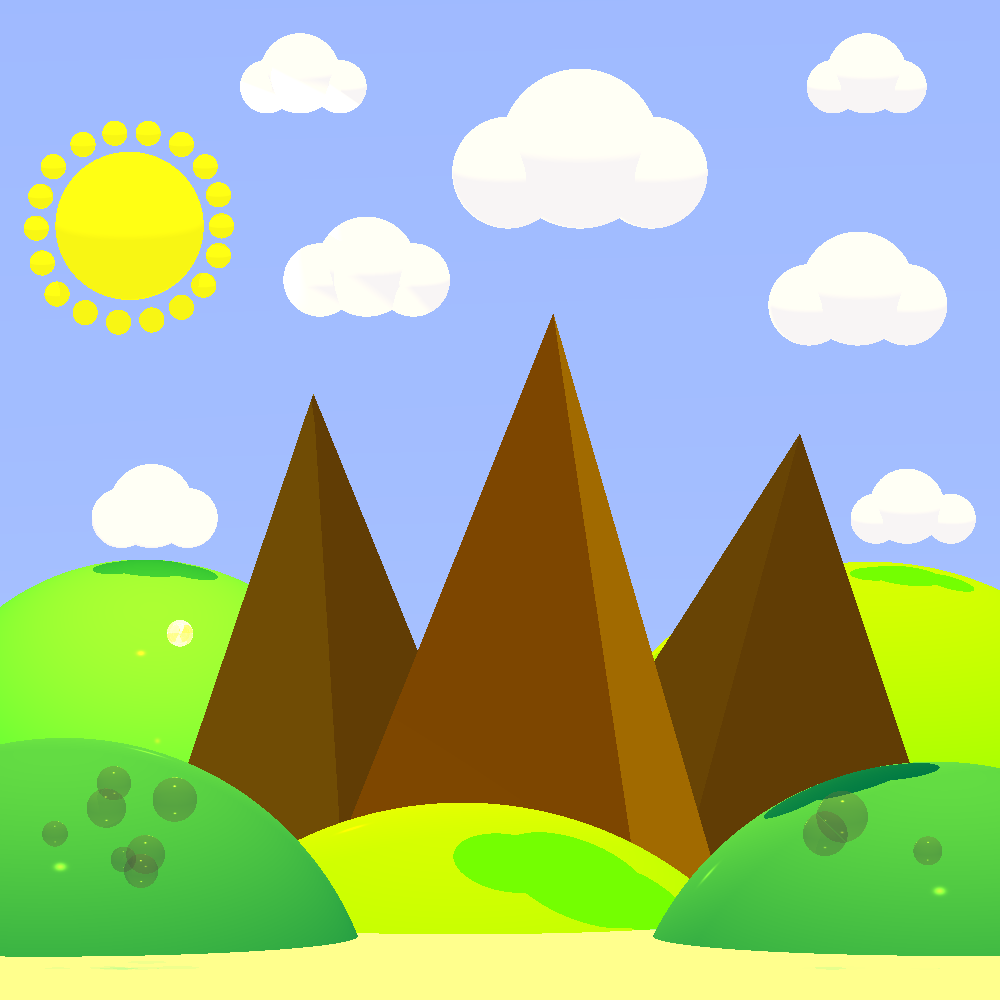
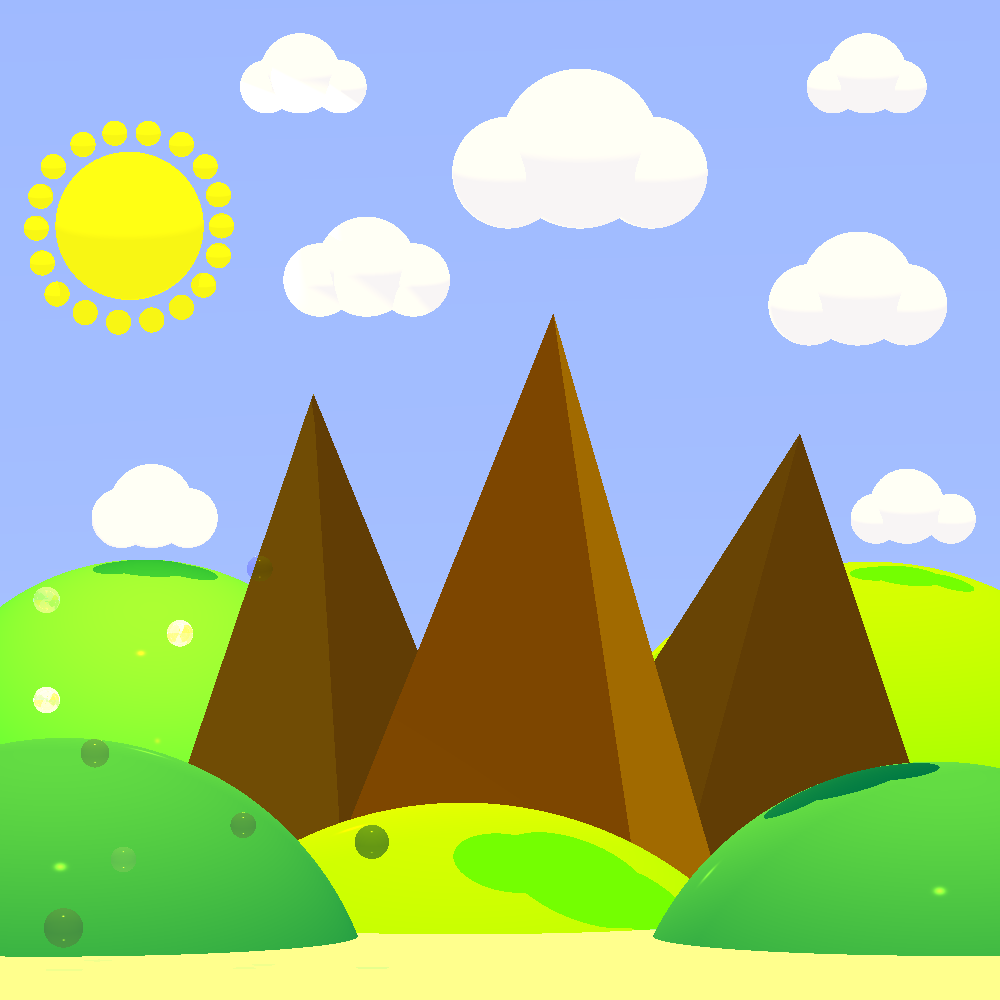
finish picture, lets improve!

diff --git a/unitTests/renderer/minip1Test.java b/unitTests/renderer/minip1Test.java
@@ -154,85 +154,47 @@ public class minip1Test {
                         .setMaterial(new Material().setKd(0.2).setKs(0.6).setShininess(300))
 
         );*/
-
-
-
         //bubbles
-
         scene.getGeometries().add(
-
-                //hils1
                 //1
                 new Sphere(new Point(-48,-20,0),2d)
                         .setEmission(new Color(255,255,255).scale(0.05))
                         .setMaterial(new Material().setKd(0.1)
                                 .setKs(0.9).setShininess(300).setKt(0.8).setKr(0.4)),
-
-
-
-                //hils2
-                //2
+                new Sphere(new Point(-68,-30,0),2d)
+                        .setEmission(new Color(255,255,255).scale(0.05))
+                        .setMaterial(new Material().setKd(0.1)
+                                .setKs(0.9).setShininess(300).setKt(0.8).setKr(0.4)),
+                new Sphere(new Point(-68,-15,0),2d)
+                        .setEmission(new Color(255,255,255).scale(0.05))
+                        .setMaterial(new Material().setKd(0.1)
+                                .setKs(0.9).setShininess(300).setKt(0.8).setKr(0.2)),
                 new Sphere(new Point(-44,-42,221),1.5d)
                         .setEmission(new Color(255,255,255).scale(0.05))
                         .setMaterial(new Material().setKd(0.1)
-                                .setKs(0.9).setShininess(300).setKt(0.8)),
-                         /* //3
-                new Sphere(new Point(-14,-50,150),2d)
-                        .setEmission(new Color(255,255,255).scale(0.05))
-                        .setMaterial(new Material().setKd(0.1)
-                                .setKs(0.9).setShininess(300).setKt(0.8)),
-*/
-                //4
-                new Sphere(new Point(-42,-42,210),2.3d)
+                                .setKs(0.9).setShininess(300).setKt(0.9)),
+
+                new Sphere(new Point(-48,-30,210),1.7d)
                         .setEmission(new Color(255,255,255).scale(0.05))
                         .setMaterial(new Material().setKd(0.1)
                                 .setKs(0.9).setShininess(300).setKt(0.8)),
 
-                //5
-                new Sphere(new Point(-42,-43.4,220),2d)
+                new Sphere(new Point(-15,-40,220),2d)
+                        .setEmission(new Color(255,255,255).scale(0.05))
+                        .setMaterial(new Material().setKd(0.1)
+                                .setKs(0.9).setShininess(300).setKt(0.6)),
+
+                new Sphere(new Point(-30,-38,221),1.5d)
                         .setEmission(new Color(255,255,255).scale(0.05))
                         .setMaterial(new Material().setKd(0.1)
                                 .setKs(0.9).setShininess(300).setKt(0.8)),
-//8
-                new Sphere(new Point(-52,-39,221),1.5d)
+                new Sphere(new Point(-51,-50,221),2.3d)
                         .setEmission(new Color(255,255,255).scale(0.05))
                         .setMaterial(new Material().setKd(0.1)
                                 .setKs(0.9).setShininess(300).setKt(0.8)),
 
-                //
-                new Sphere(new Point(-46,-36,221),2.3d)
-                        .setEmission(new Color(255,255,255).scale(0.05))
-                        .setMaterial(new Material().setKd(0.1)
-                                .setKs(0.9).setShininess(300).setKt(0.8)),
-
-                //
-                new Sphere(new Point(-45,-33,223),2d)
-                        .setEmission(new Color(255,255,255).scale(0.05))
-                        .setMaterial(new Material().setKd(0.1)
-                                .setKs(0.9).setShininess(300).setKt(0.8)),
-//
-                new Sphere(new Point(-38,-35,221),2.6d)
-                        .setEmission(new Color(255,255,255).scale(0.05))
-                        .setMaterial(new Material().setKd(0.1)
-                                .setKs(0.9).setShininess(300).setKt(0.8)),
-
-
-                //hils3
-                //1
-                new Sphere(new Point(38,-39,221),2.6d)
-                        .setEmission(new Color(255,255,255).scale(0.05))
-                        .setMaterial(new Material().setKd(0.1)
-                                .setKs(0.9).setShininess(300).setKt(0.8)),
-
-                //2
-                new Sphere(new Point(40,-37,221),3d)
-                        .setEmission(new Color(255,255,255).scale(0.05))
-                        .setMaterial(new Material().setKd(0.1)
-                                .setKs(0.9).setShininess(300).setKt(0.8)),
-
-                //3
-                new Sphere(new Point(50,-41,221),1.7d)
-                        .setEmission(new Color(255,255,255).scale(0.05))
+                new Sphere(new Point(-28,-8,223),1.5d)
+                        .setEmission(new Color(255,255,0).scale(0.05))
                         .setMaterial(new Material().setKd(0.1)
                                 .setKs(0.9).setShininess(300).setKt(0.8))
 
@@ -241,11 +203,25 @@ public class minip1Test {
 
 
 
+                /*
 
+                new Sphere(new Point(38,-39,221),2.6d)
+                        .setEmission(new Color(255,255,255).scale(0.05))
+                        .setMaterial(new Material().setKd(0.1)
+                                .setKs(0.9).setShininess(300).setKt(0.8)),
 
+                //10
+                new Sphere(new Point(40,-37,221),3d)
+                        .setEmission(new Color(255,255,255).scale(0.05))
+                        .setMaterial(new Material().setKd(0.1)
+                                .setKs(0.9).setShininess(300).setKt(0.8)),
 
-
-
+                //11
+                new Sphere(new Point(50,-41,221),1.7d)
+                        .setEmission(new Color(255,255,255).scale(0.05))
+                        .setMaterial(new Material().setKd(0.1)
+                                .setKs(0.9).setShininess(300).setKt(0.8))
+                */
         );
 
         //cloud
